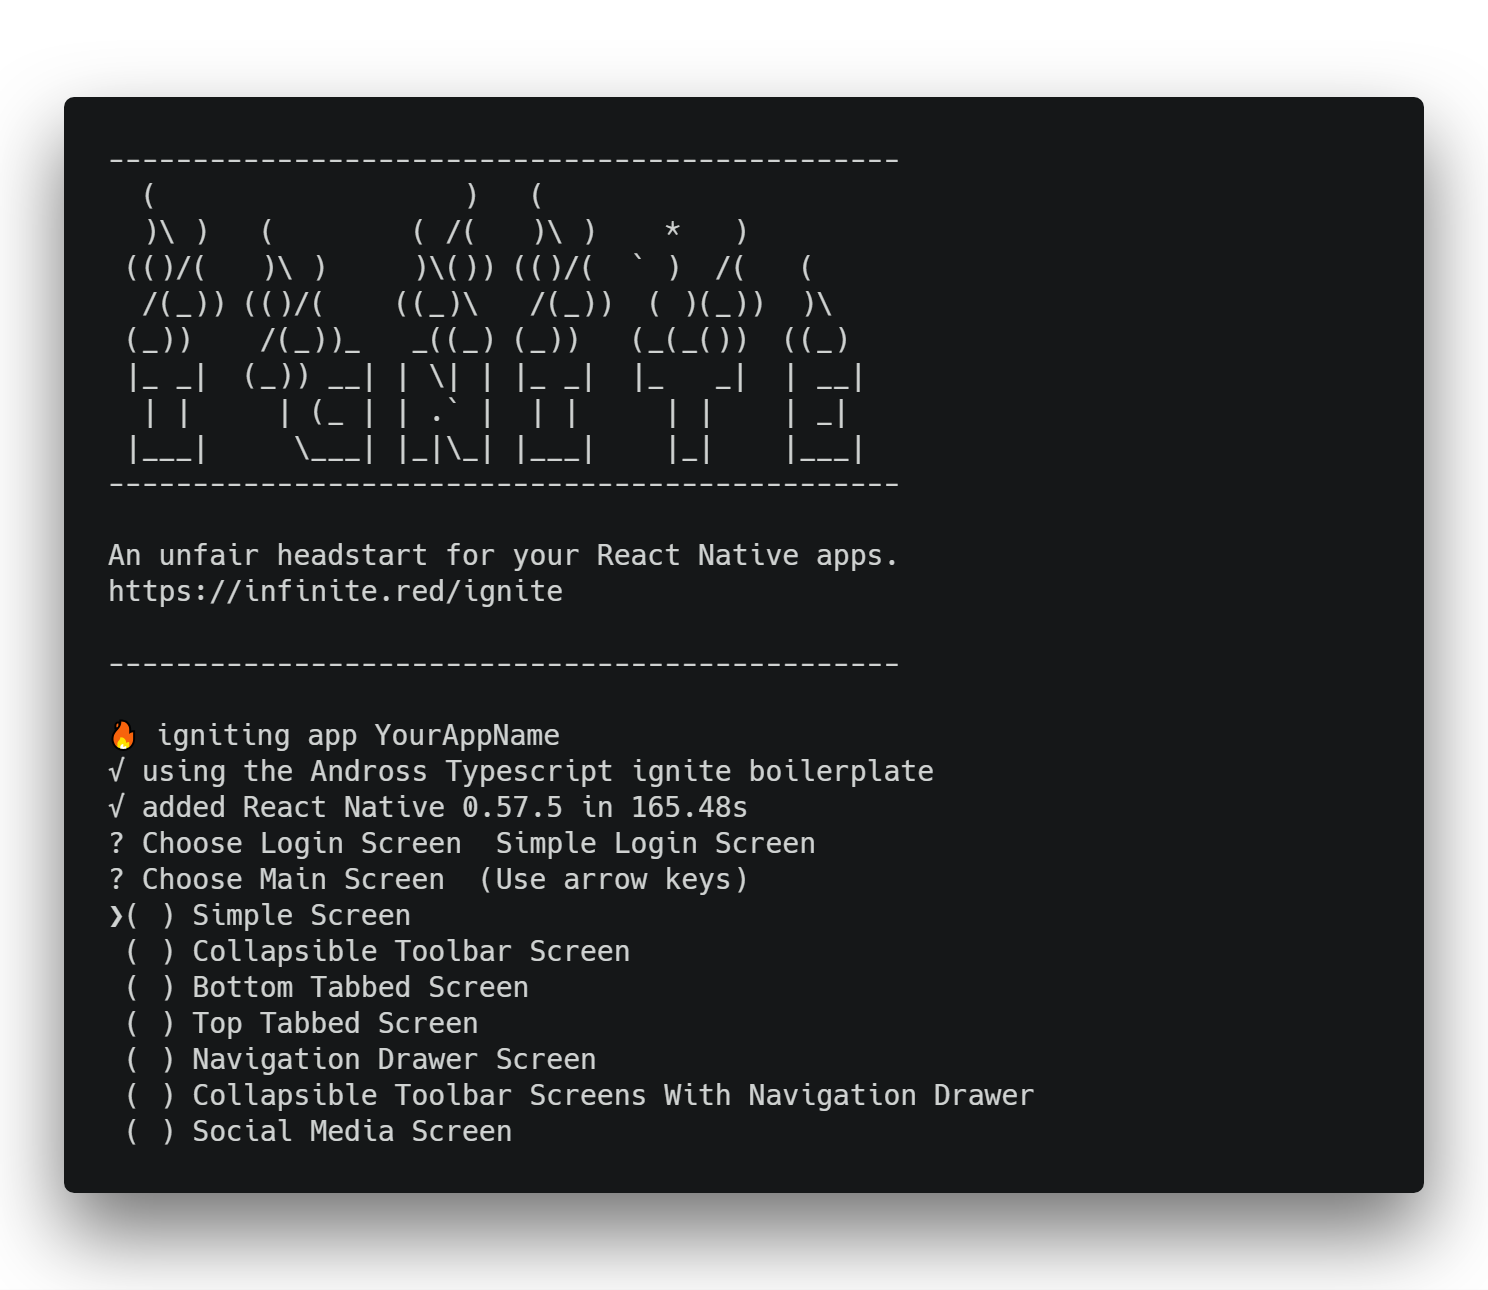
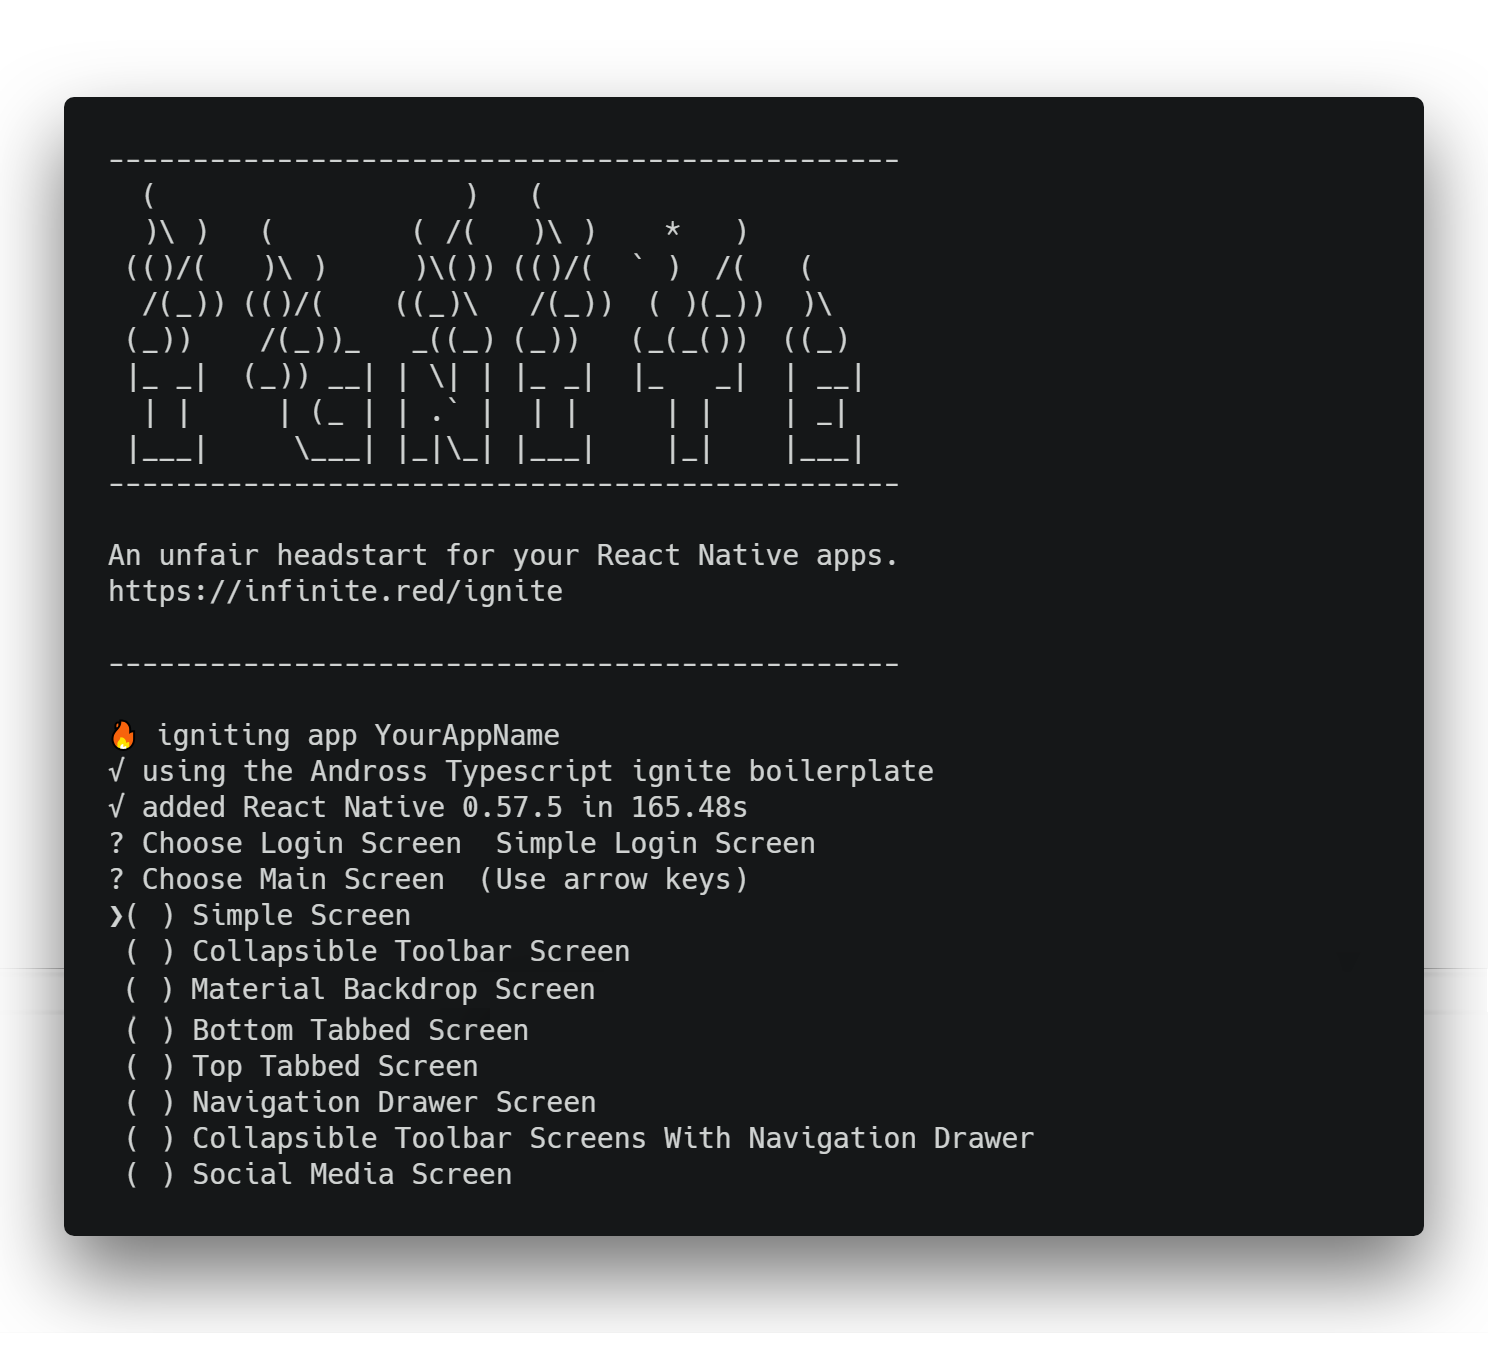
added screen updated readme

diff --git a/boilerplate.js b/boilerplate.js
@@ -220,6 +220,17 @@ async function install (context) {
         await ignite.copyBatch(context, jobs, props)
         break;
       }
+      case 'Material Backdrop Screen':{
+        const props = { name:'LaunchScreen' }
+        const jobs = [
+          {
+            template: 'backdrop/LaunchScreen.ejs',
+            target: `App/Containers/LaunchScreen.tsx`
+          }
+        ]
+        await ignite.copyBatch(context, jobs, props)
+        break;
+      }
       case 'Collapsible Toolbar Screens With Drawer Navigation':{
         spinner.text = '▸ copying files'
         spinner.start()

diff --git a/commands/container.js b/commands/container.js
@@ -113,6 +113,14 @@ module.exports = async function (context) {
       }
     ]
     await ignite.copyBatch(context, jobs, props)
+  } else if (parameters.second === "Backdrop") {
+    const jobs = [
+      {
+        template: 'backdrop/LaunchScreen.ejs',
+        target: `App/Containers/${name}.tsx`
+      }
+    ]
+    await ignite.copyBatch(context, jobs, props)
   } else if (parameters.second === "CollapsibleToolbarDrawer"){
     filesystem.copy(`${__dirname}/../templates/collapsibledrawer/Components`, `${process.cwd()}/App/Components`, {
       overwrite: true

diff --git a/options.js b/options.js
@@ -15,6 +15,7 @@ const questions = [
     choices: [
       'Simple Screen',
       'Collapsible Toolbar Screen',
+      'Material Backdrop Screen',
       'Bottom Tabbed Screen',
       'Top Tabbed Screen',
       'Navigation Drawer Screen',

diff --git a/README.md b/README.md
@@ -26,7 +26,8 @@
          * [Bottom Tabbed Screen](#bottom-tabbed-screen)
          * [Top Tabbed Screen](#top-tabbed-screen)  
          * [Drawer Navigation Screen](#drawer-navigation-screen)    
-         * [Simple Collapsible Toolbar Screen](#simple-collapsible-toolbar-screen)   
+         * [Simple Collapsible Toolbar Screen](#simple-collapsible-toolbar-screen) 
+         * [Backdrop Screen](#backdrop-screen)  
          * [Collapsible Screen With Drawer Navigation](#collapsible-screen-with-drawer-navigation) 
    * [App Templates](#app-templates)
       * [Social Media Template](#social-media-template)
@@ -124,12 +125,13 @@ You can choose your main screen style or just a simple screen:
 
 You can see a gif and read about templates in below links: 
 <p align="center">
-<a href="https://github.com/lvlrSajjad/ignite-boilerplate-andross-typescript#smiley-social-media-template">Social Media</a><br>
-<a href="https://github.com/lvlrSajjad/ignite-boilerplate-andross-typescript#arrow_heading_down-bottom-tabbed-template">Bottom Tab Bar</a><br>
-<a href="https://github.com/lvlrSajjad/ignite-boilerplate-andross-typescript#top-top-tabbed-template">Top Tab Bar</a><br>
-<a href="https://github.com/lvlrSajjad/ignite-boilerplate-andross-typescript#top-navigation-drawer-template">Navigation Drawer</a><br>
-<a href="https://github.com/lvlrSajjad/ignite-boilerplate-andross-typescript#top-simple-collapsible-screen-template">Simple Collapsible Screen Template</a><br>
-<a href="https://github.com/lvlrSajjad/ignite-boilerplate-andross-typescript#top-collapsible-screen-with-drawer-navigation-template">Collapsible Screen With Drawer Navigation Template</a>
+<a href="#social-media-template">Social Media</a><br>
+<a href="#bottom-tabbed-screen">Bottom Tab Bar</a><br>
+<a href="#top-tabbed-screen">Top Tab Bar</a><br>
+<a href="#drawer-navigation-screen">Navigation Drawer</a><br>
+<a href="#simple-collapsible-toolbar-screen">Simple Collapsible Screen Template</a><br>
+<a href="#backdrop-screen">Backdrop Screen</a><br>
+<a href="#collapsible-screen-with-drawer-navigation">Collapsible Screen With Drawer Navigation Template</a>
 </p>
 </p>
 
@@ -337,6 +339,20 @@ You can generate a screen with this template using below command :
 ```
 
 for customization or etc , i've used <a href="https://github.com/lvlrSajjad/ignite-boilerplate-andross-typescript#material-collapsible-toolbar-container">MaterialCollapsibleToolbarContainer</a> in this screen so you can get more info from mentioned link
+
+#### Backdrop Screen
+
+this template provides a back screen as below gif i used <a href='#material-backdrop'>Material Backdrop</a> component for this
+
+<p align="center">
+<img src="https://raw.githubusercontent.com/lvlrSajjad/ignite-boilerplate-andross-typescript/master/gifs/backdrop.gif" width="100%">
+</p>
+
+You can generate a screen with this template using below command :
+
+```
+ ignite g container YourScreenName Backdrop
+```
 
 #### Collapsible Screen With Drawer Navigation
 this template provides a navigation drawer screen with 5 tabs , four of them have collapsible toolbars as below gif
